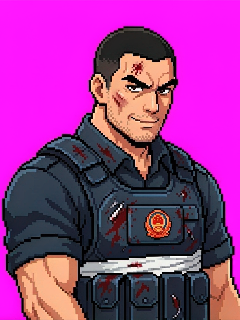
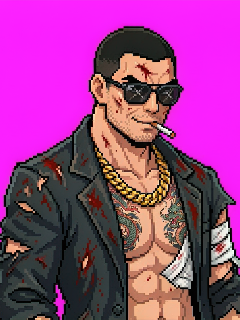
fix(act2): verify dynamic protagonist and father name bindings for dual routes and update art assets
- Verify dynamic {ALLY_2_NAME} and protagonist father name bindings across all Act 2 story chapters (ch10-ch19) for both male (Fan Wenmo / Zhang Zixiao) and female (He Yanxi / Shiyunuo) routes.
- Commit newly added father police damaged art assets and avatars.

diff --git a/src/engine/avatar.js b/src/engine/avatar.js
@@ -79,7 +79,7 @@ const ACTOR_STATES = {
   senior_student: ['default', 'corrupted'],
   janitor: ['default', 'corrupted'],
   /* 第二幕核心角色 */
-  father_haifeng: ['default', 'police', 'battle_damaged'],
+  father_haifeng: ['default', 'battle_damaged', 'police', 'police_damaged'],
   shen_chongli: ['default'],
   shen_wanting: ['old'],
   militia_instructor: ['1839'],
